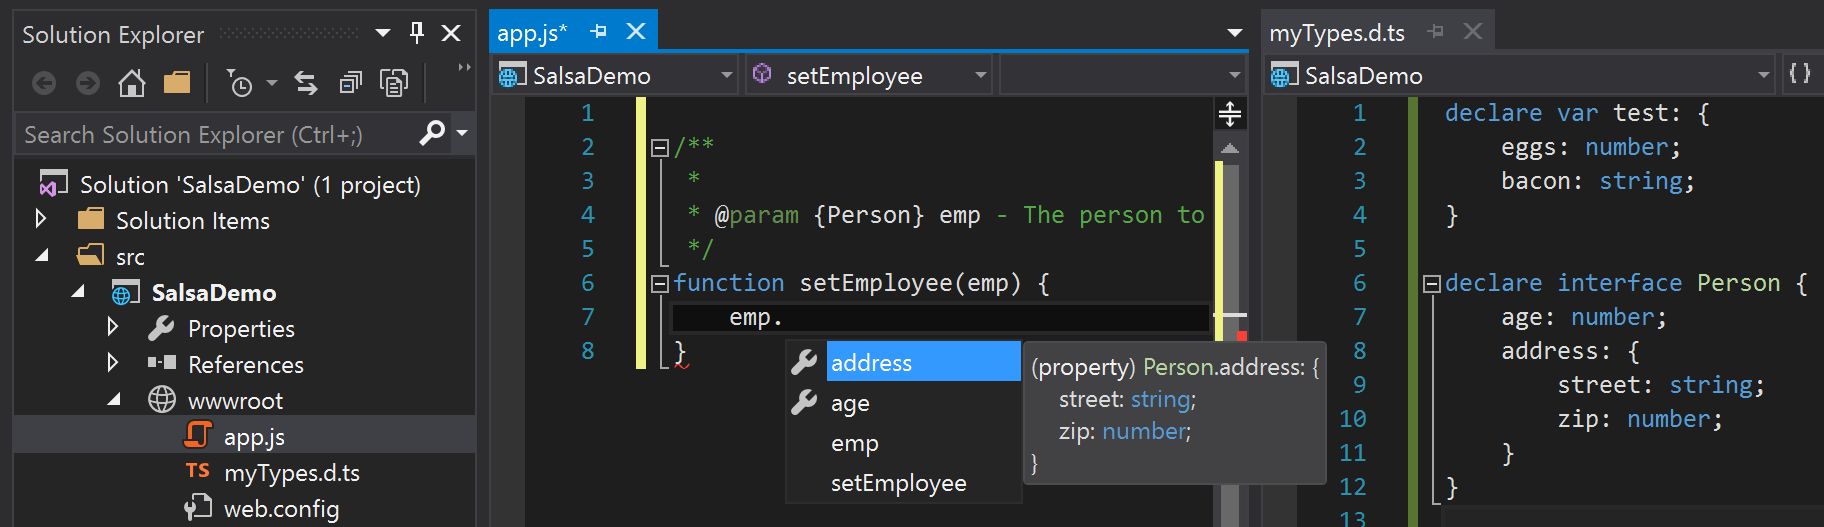
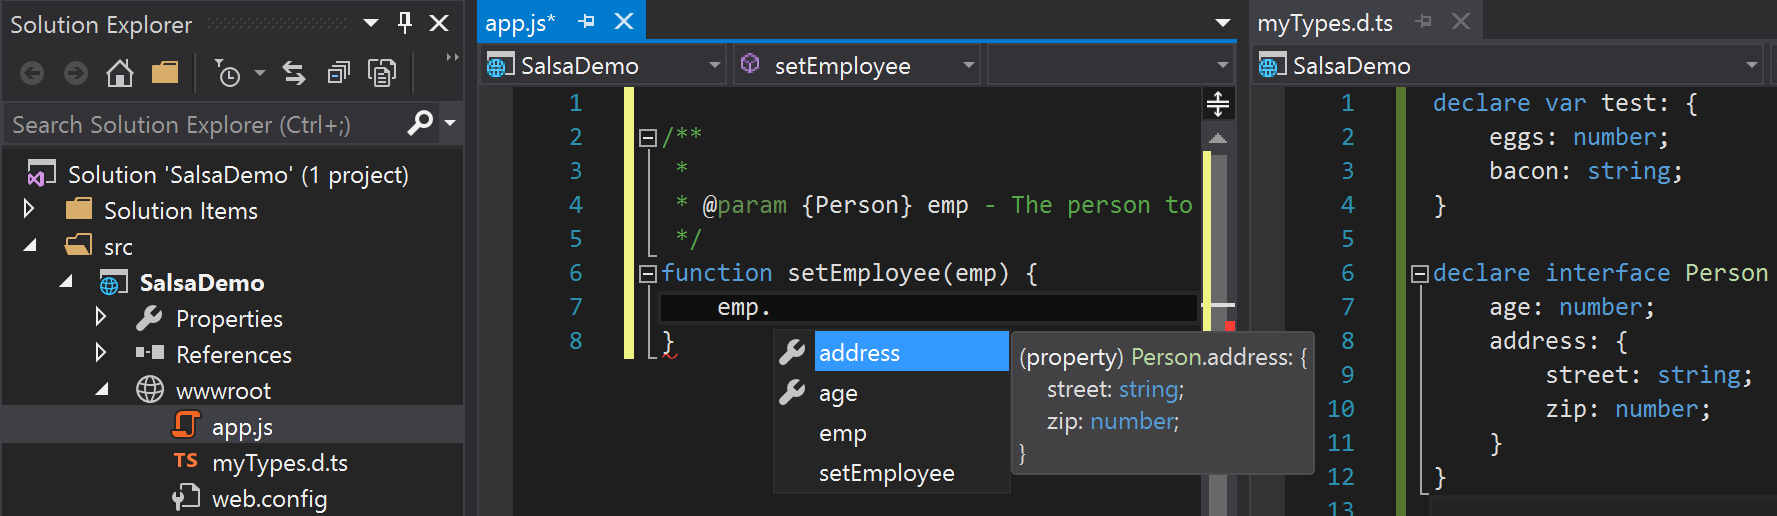
Final image tweaks

diff --git a/Using-the-Salsa-Preview-in-Dev15.md b/Using-the-Salsa-Preview-in-Dev15.md
@@ -60,7 +60,7 @@ for more recent language features (as shown in the destructuring example below).
 
 _**Richer intellisense**_
 
-<img src="https://raw.githubusercontent.com/wiki/Microsoft/TypeScript/images/array.map.png" height="132" width="933"/>
+<img src="https://raw.githubusercontent.com/wiki/Microsoft/TypeScript/images/array.map.png" height="124" width="640"/>
 
 _**Latest language features**_
 
@@ -145,7 +145,7 @@ JsDoc tag).
 
 _**TypeScript declarations used in JavaScript**_
 
-<img src="https://raw.githubusercontent.com/wiki/Microsoft/TypeScript/images/decl1.png" height="264" width="912"/>
+<img src="https://raw.githubusercontent.com/wiki/Microsoft/TypeScript/images/decl1.png" height="185" width="640"/>
 
 ### Automatic acquisition of type definitions
 In the TypeScript world, the most popular JavaScript libraries have their APIs
